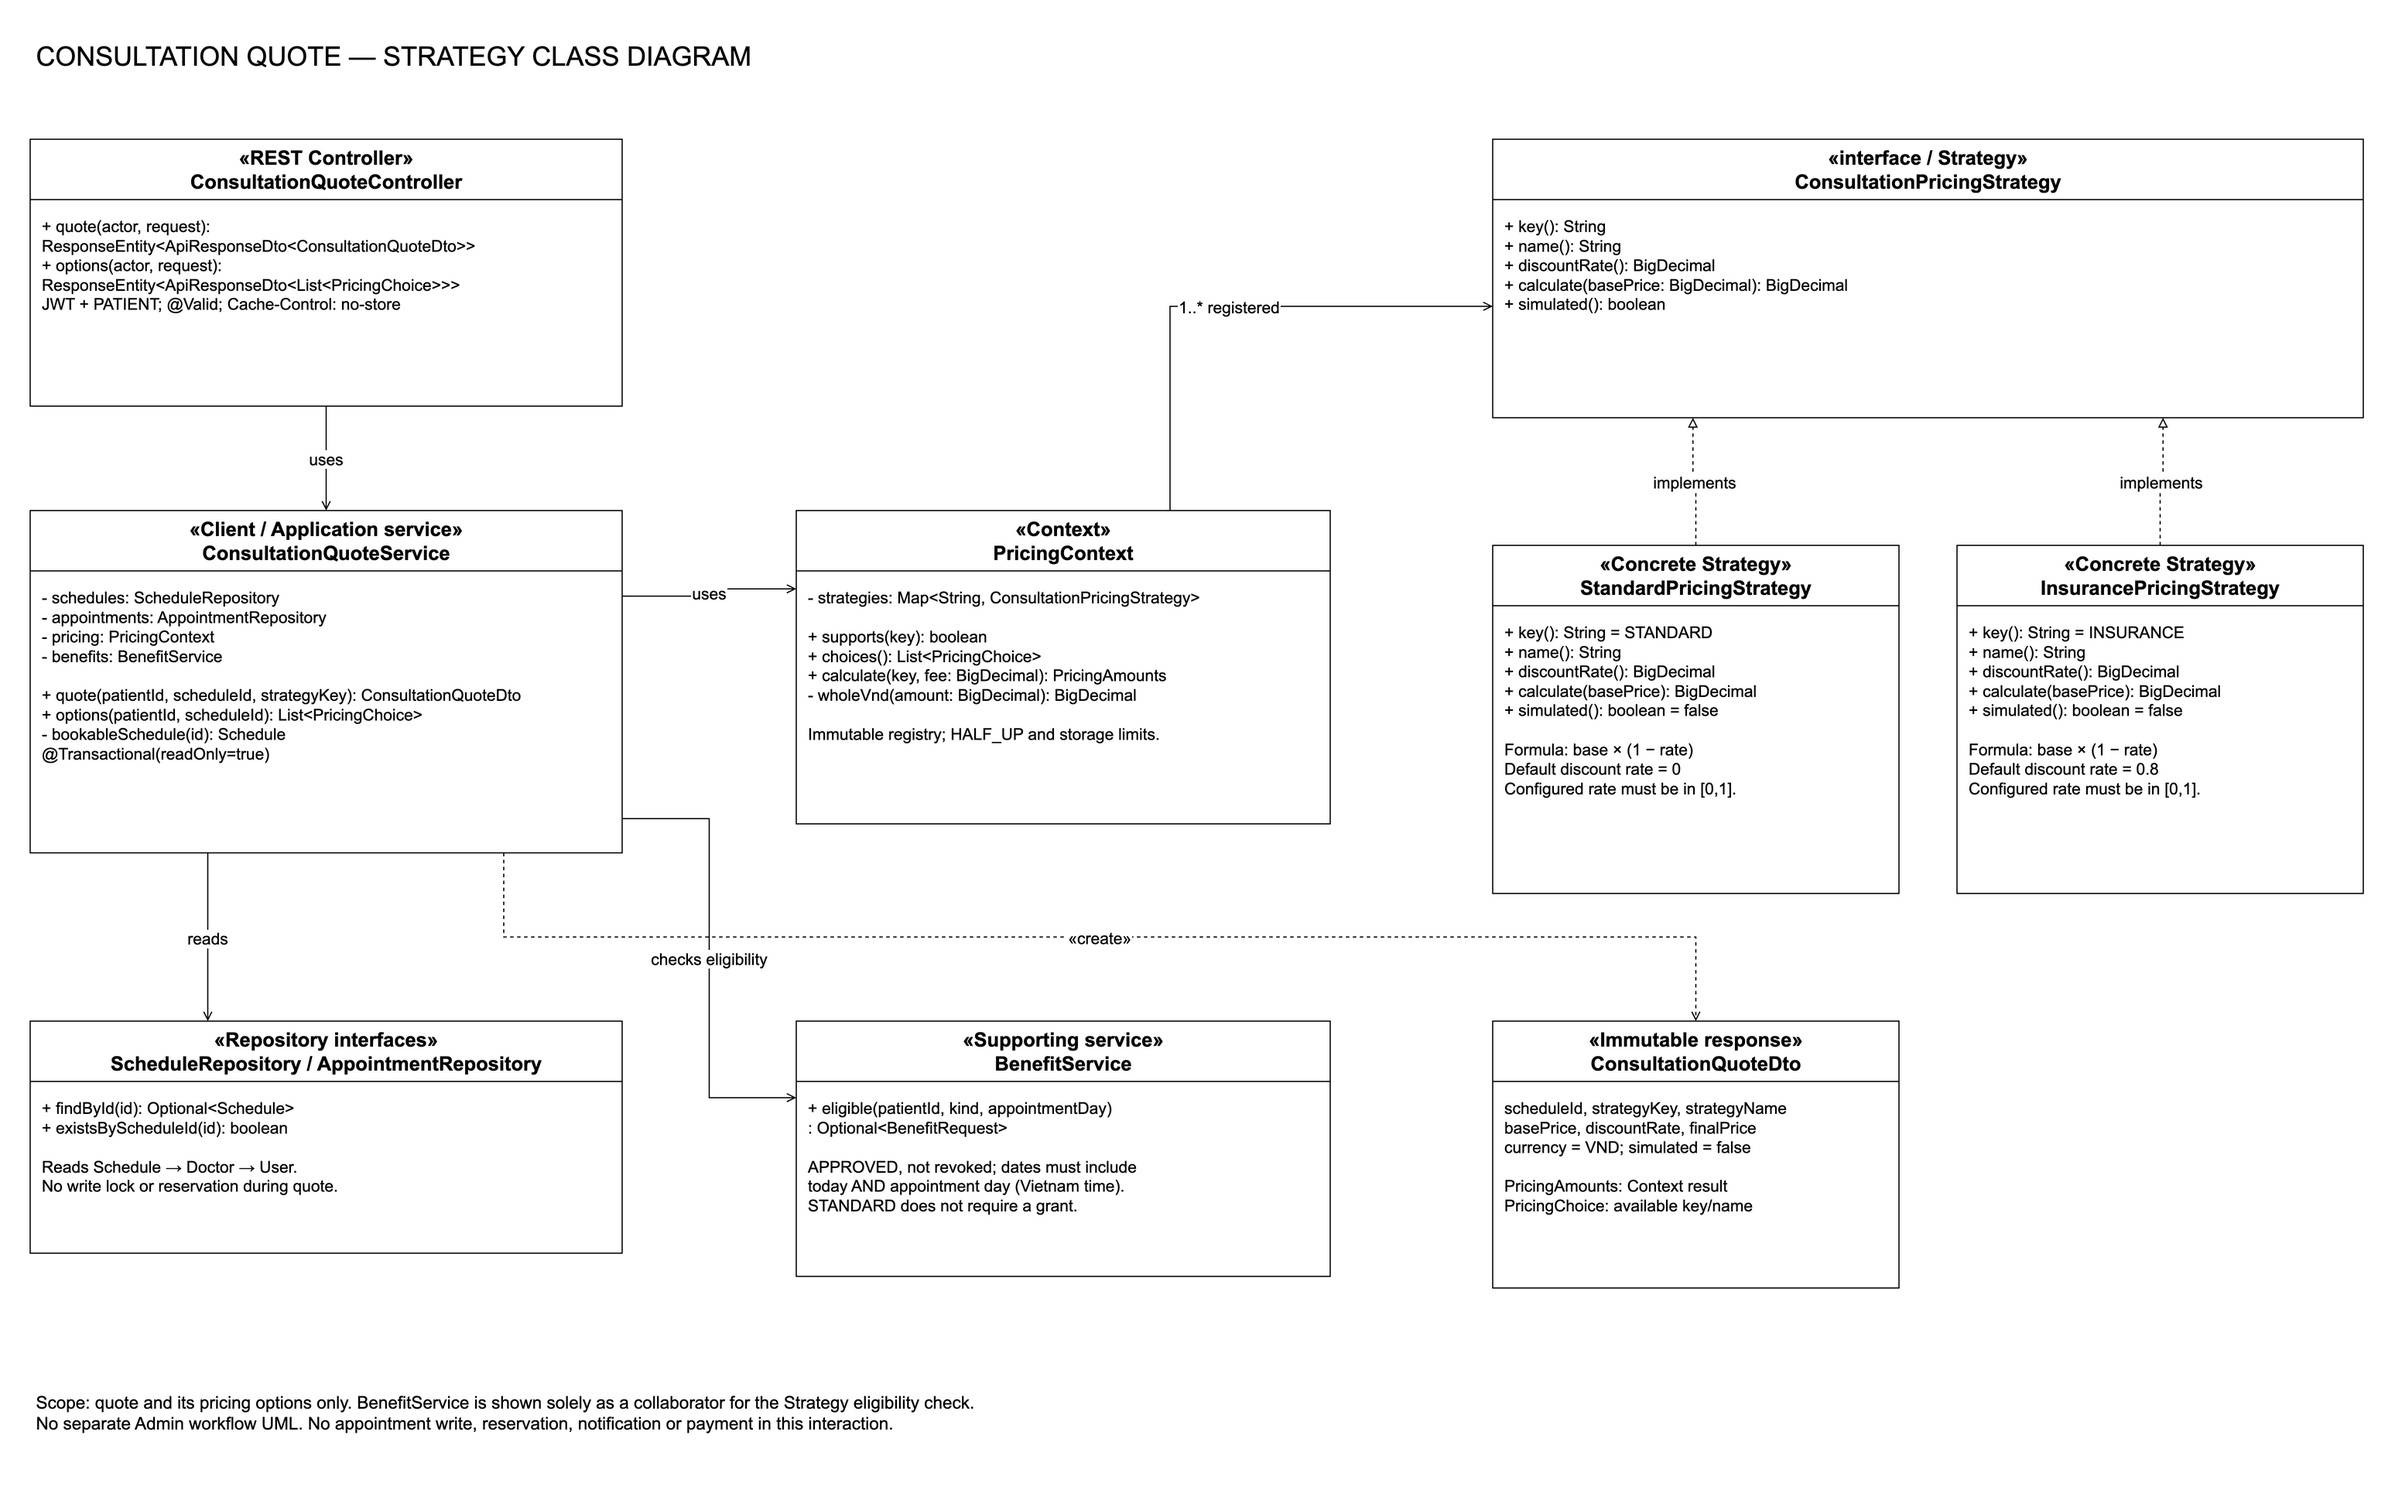
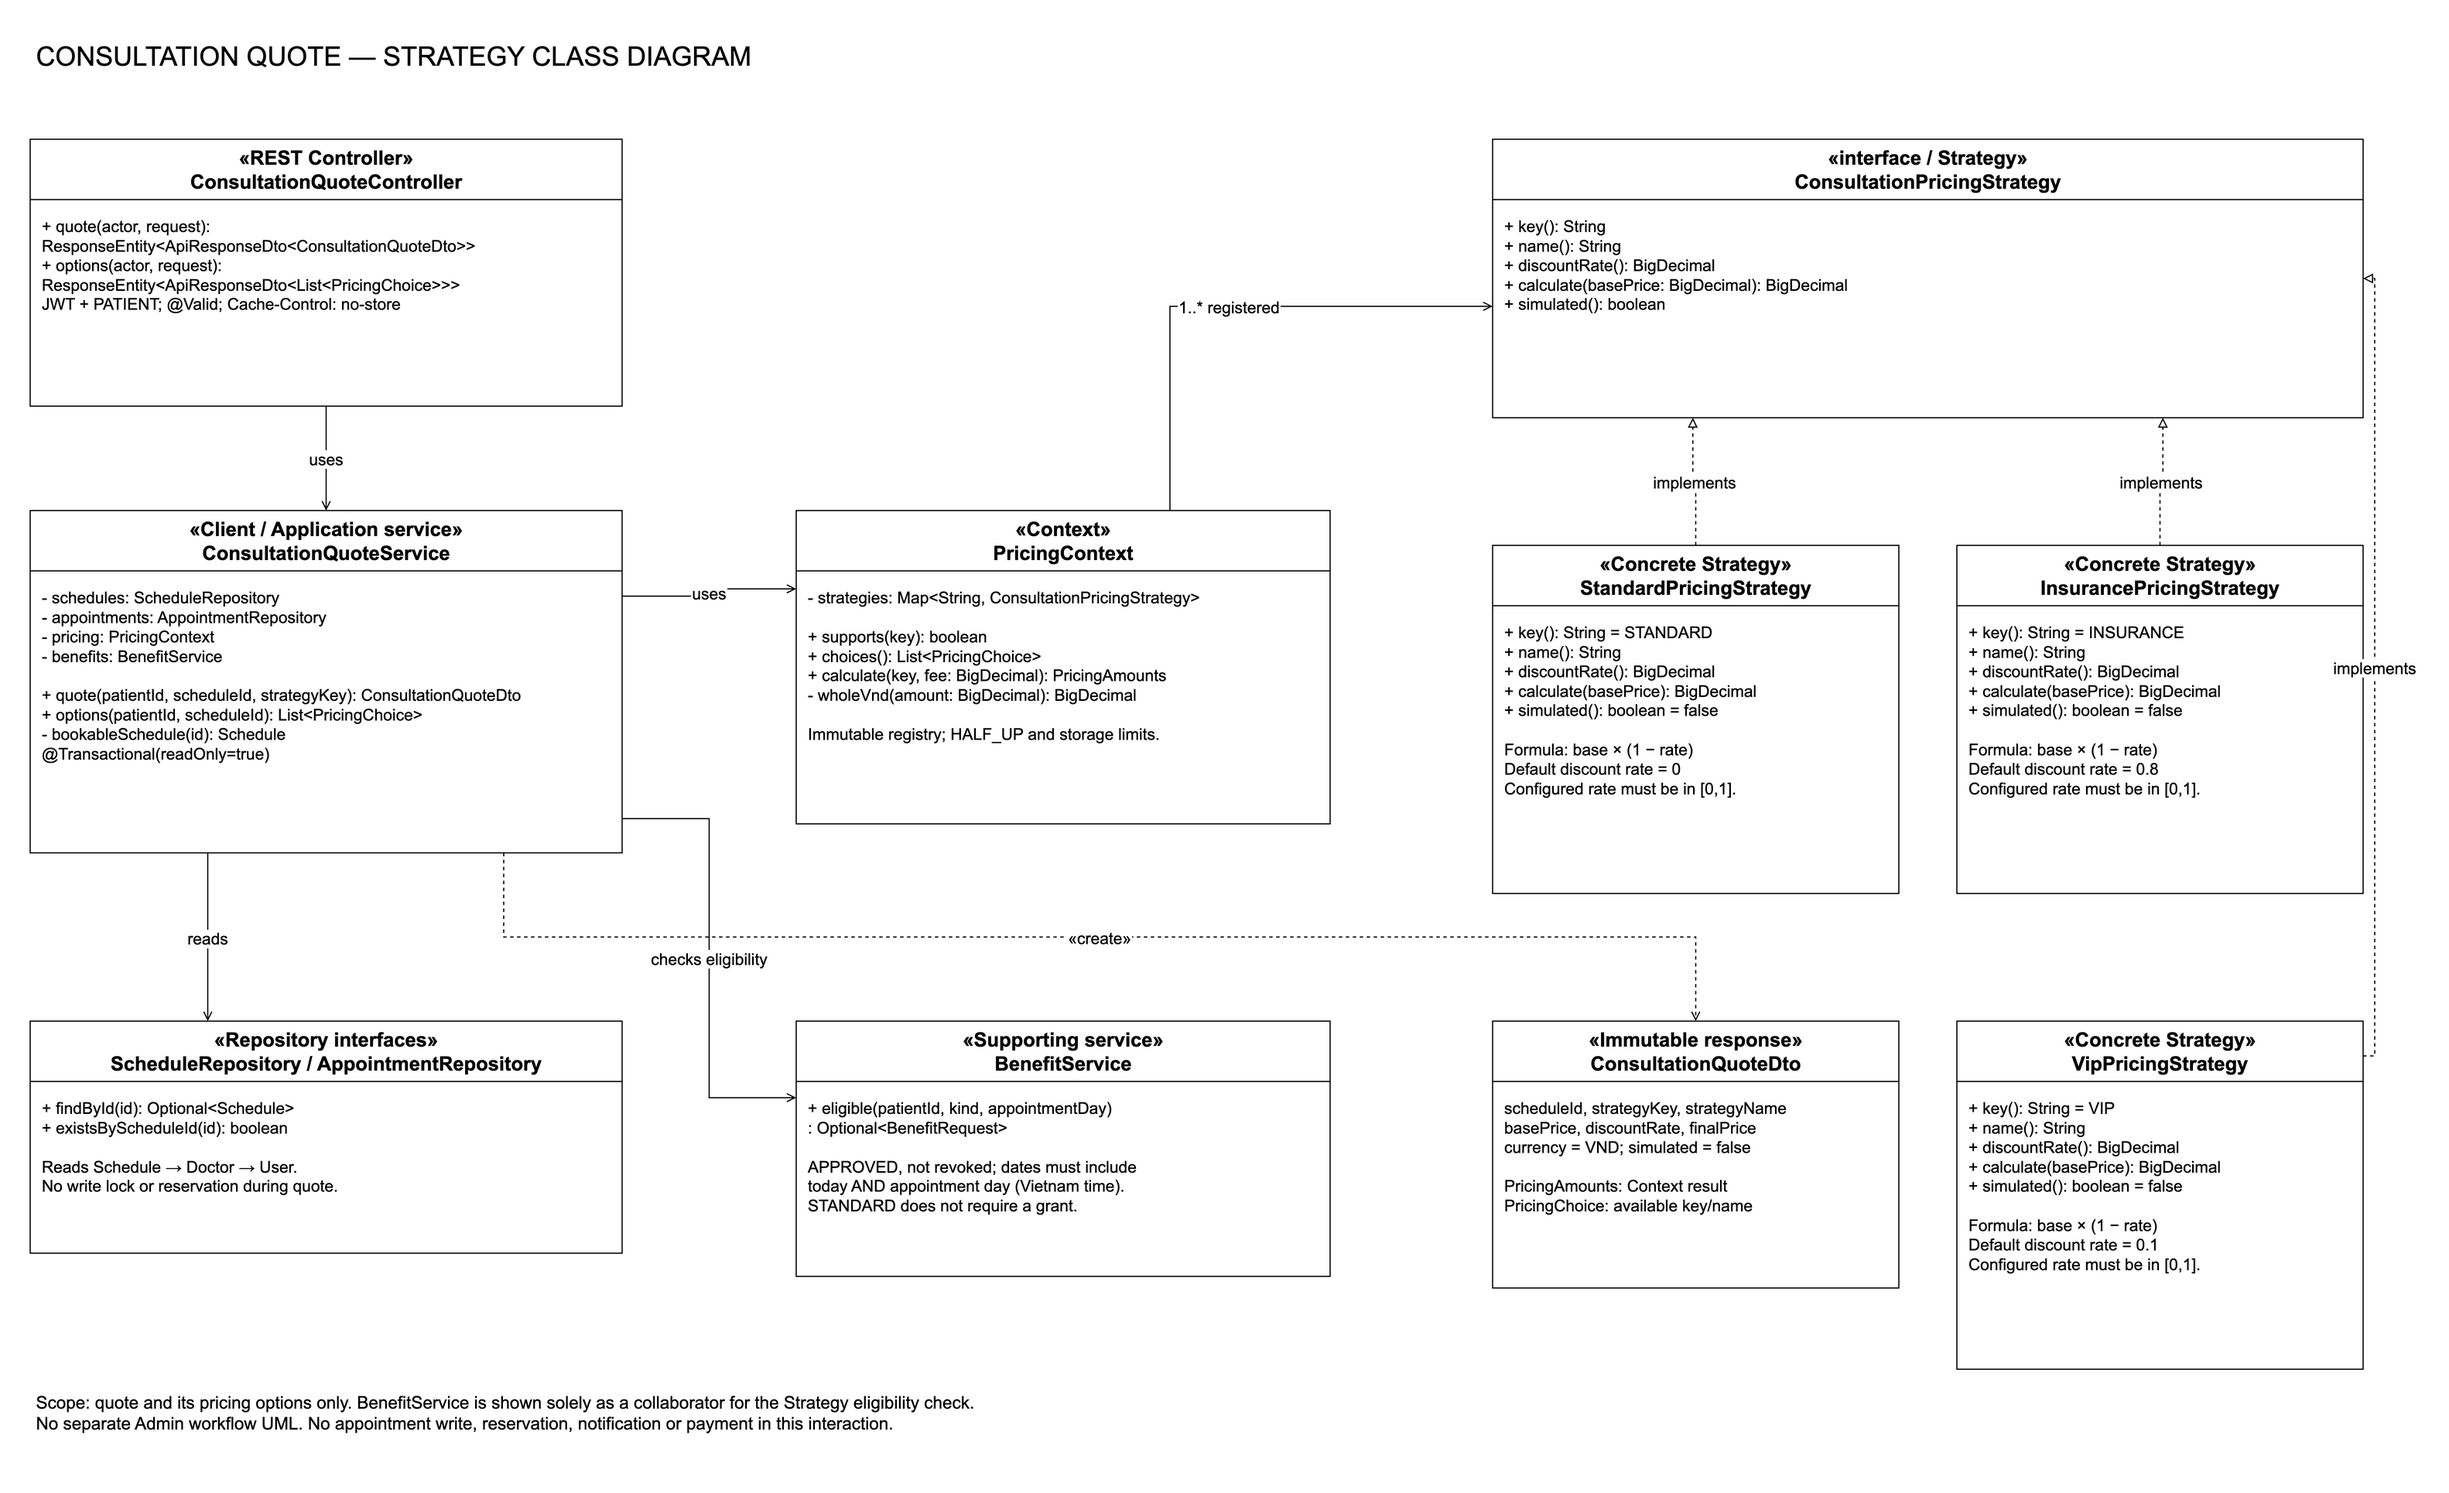
feat: quote VIP prices using verified benefit eligibility (#13)

diff --git a/backend/src/test/java/com/datlichkhambenh/backend/EligibilityQuoteIntegrationTests.java b/backend/src/test/java/com/datlichkhambenh/backend/EligibilityQuoteIntegrationTests.java
@@ -67,4 +67,23 @@ class EligibilityQuoteIntegrationTests {
   right.setPatient(patients.save(Patient.builder().user(other).fullName("Other").build()));benefits.saveAndFlush(right);
   mvc.perform(quote("INSURANCE")).andExpect(status().isForbidden());
  }
+
+ @Test void verifiedVipQuotesNinetyPercent() throws Exception {
+  grant("VIP","APPROVED",0,1);
+  mvc.perform(quote("VIP")).andExpect(status().isOk()).andExpect(jsonPath("$.data.finalPrice").value(270000))
+   .andExpect(jsonPath("$.data.discountRate").value(.1)).andExpect(jsonPath("$.data.simulated").value(false));
+  String p="/api/v1/appointments/pricing-options";
+  mvc.perform(get(p).servletPath(p).param("scheduleId",schedule.getId().toString()).header("Authorization","Bearer "+token))
+   .andExpect(status().isOk()).andExpect(jsonPath("$.data[*].key",hasItem("VIP")));
+ }
+ @Test void simultaneousGrantsDoNotStackDiscounts() throws Exception {
+  grant("INSURANCE","APPROVED",-1,2);grant("VIP","APPROVED",-1,2);
+  mvc.perform(quote("VIP")).andExpect(status().isOk()).andExpect(jsonPath("$.data.finalPrice").value(270000));
+  mvc.perform(quote("INSURANCE")).andExpect(status().isOk()).andExpect(jsonPath("$.data.finalPrice").value(60000));
+  mvc.perform(quote("STANDARD")).andExpect(status().isOk()).andExpect(jsonPath("$.data.finalPrice").value(300000));
+ }
+ @Test void unverifiedAndRevokedVipAreDenied() throws Exception {
+  mvc.perform(quote("VIP")).andExpect(status().isForbidden());
+  grant("VIP","REVOKED",-1,2);mvc.perform(quote("VIP")).andExpect(status().isForbidden());
+ }
 }

diff --git a/backend/src/main/java/com/datlichkhambenh/backend/service/pricing/VipPricingStrategy.java b/backend/src/main/java/com/datlichkhambenh/backend/service/pricing/VipPricingStrategy.java
@@ -1,0 +1,17 @@
+package com.datlichkhambenh.backend.service.pricing;
+import org.springframework.beans.factory.annotation.Value;
+import org.springframework.stereotype.Component;
+import java.math.BigDecimal;
+@Component
+public class VipPricingStrategy implements ConsultationPricingStrategy {
+ private final BigDecimal rate;
+ public VipPricingStrategy(@Value("${app.pricing.vip-discount-rate:0.1}") BigDecimal rate) {
+  if(rate==null||rate.signum()<0||rate.compareTo(BigDecimal.ONE)>0)throw new IllegalArgumentException("Tỷ lệ giảm phải trong [0,1]");
+  this.rate=rate;
+ }
+ public String key(){return "VIP";}
+ public String name(){return "VIP";}
+ public BigDecimal discountRate(){return rate;}
+ public boolean simulated(){return false;}
+ public BigDecimal calculate(BigDecimal basePrice){return basePrice.multiply(BigDecimal.ONE.subtract(rate));}
+}

diff --git a/backend/src/test/java/com/datlichkhambenh/backend/ConsultationQuoteIntegrationTests.java b/backend/src/test/java/com/datlichkhambenh/backend/ConsultationQuoteIntegrationTests.java
@@ -157,7 +157,7 @@ class ConsultationQuoteIntegrationTests {
     }
 
     @ParameterizedTest
-    @CsvSource({"UNKNOWN", "VIP", "' '", "''"})
+    @CsvSource({"UNKNOWN", "' '", "''"})
     void unsupportedOrBlankKeyIsRejected(String key) throws Exception {
         mvc.perform(quoteRequest().param("scheduleId", schedule.getId().toString())
                 .param("strategyKey", key).header("Authorization", "Bearer " + token))

diff --git a/.scratch/consultation-pricing-strategy/issues/06-vip-quote.md b/.scratch/consultation-pricing-strategy/issues/06-vip-quote.md
@@ -1,6 +1,6 @@
 # 06: Báo giá VIP theo quyền đã được duyệt
 
-Status: ready-for-agent
+Status: completed
 
 **Parent:** https://github.com/MinhQuy06/CK_MTKPM/issues/1
 
@@ -12,10 +12,12 @@ Thực hiện trong repository MinhQuy06/CK_MTKPM, branch thaihoa, tại checkou
 
 **Blocked by:** 01: Báo giá Tiêu chuẩn qua Strategy, 03: Admin duyệt hoặc từ chối yêu cầu quyền hưởng
 
-- [ ] Concrete Strategy VIP dùng giao diện và Context hiện có; thêm thuật toán không sửa công thức điều phối.
-- [ ] Mặc định giảm 10%, bệnh nhân trả 90%: 300.000đ → 270.000đ. Tỷ lệ cấu hình được, BigDecimal/HALF_UP và giới hạn tiền thống nhất.
-- [ ] API/giao diện hiển thị VIP trong lựa chọn hợp lệ của chính bệnh nhân cho ca; kiểm tra đã duyệt, chưa thu hồi, hiệu lực hiện tại và ngày khám theo múi giờ Việt Nam.
-- [ ] Request loại VIP không hợp lệ bị server từ chối, không tự áp giảm hoặc chuyển loại. Chờ/từ chối/chưa đến hạn/hết hạn đều không đủ điều kiện.
-- [ ] VIP hợp lệ dùng được ở môi trường vận hành, không khóa theo demo/test; mỗi báo giá chỉ một loại, không tự chọn ưu đãi tốt nhất thay người dùng.
-- [ ] Kiểm thử API công thức, quyền, ngày biên và danh sách lựa chọn; kiểm thử giao diện đổi loại/ca và loại bỏ response cũ. Báo giá không tạo lịch, giữ ca hay phát email.
-- [ ] Cập nhật cùng cặp Class/Sequence báo giá và PNG đen trắng để phản ánh VIP thực tế; giữ tổng chỉ hai sơ đồ cho chức năng báo giá.
+- [x] Concrete Strategy VIP dùng giao diện và Context hiện có; thêm thuật toán không sửa công thức điều phối.
+- [x] Mặc định giảm 10%, bệnh nhân trả 90%: 300.000đ → 270.000đ. Tỷ lệ cấu hình được, BigDecimal/HALF_UP và giới hạn tiền thống nhất.
+- [x] API/giao diện hiển thị VIP trong lựa chọn hợp lệ của chính bệnh nhân cho ca; kiểm tra đã duyệt, chưa thu hồi, hiệu lực hiện tại và ngày khám theo múi giờ Việt Nam.
+- [x] Request loại VIP không hợp lệ bị server từ chối, không tự áp giảm hoặc chuyển loại. Chờ/từ chối/chưa đến hạn/hết hạn đều không đủ điều kiện.
+- [x] VIP hợp lệ dùng được ở môi trường vận hành, không khóa theo demo/test; mỗi báo giá chỉ một loại, không tự chọn ưu đãi tốt nhất thay người dùng.
+- [x] Kiểm thử API công thức, quyền, ngày biên và danh sách lựa chọn; kiểm thử giao diện đổi loại/ca và loại bỏ response cũ. Báo giá không tạo lịch, giữ ca hay phát email.
+- [x] Cập nhật cùng cặp Class/Sequence báo giá và PNG đen trắng để phản ánh VIP thực tế; giữ tổng chỉ hai sơ đồ cho chức năng báo giá.
+
+Verification: 81 Maven + 9 Node tests; clean-fixture Chrome VIP quote 270000 VND passed; no-stacking and unauthorized/revoked cases covered; updated UML exported offline.

diff --git a/docs/strategy/standard-quote.md b/docs/strategy/standard-quote.md
@@ -15,3 +15,7 @@ Kiểm tra: bash scripts/maven.sh -q -f backend/pom.xml test; npm --prefix front
 ## Bảo hiểm đã xác minh — ticket #12
 
 InsurancePricingStrategy giảm mặc định 80%, tỷ lệ INSURANCE_DISCOUNT_RATE cấu hình trong [0,1]. Với phí 300000, giá phải trả là 60000 VND. BenefitService kiểm tra hồ sơ đã duyệt, chưa thu hồi và khoảng ngày bao gồm hôm nay lẫn ngày khám theo giờ Việt Nam. Danh tính lấy từ JWT. API pricing-options chỉ trả loại hiện đủ điều kiện; chọn bằng request sửa tay vẫn phải qua kiểm tra server. Không giới hạn demo/test và không cam kết khoản bảo hiểm hoàn trả. UML chỉ hiển thị BenefitService như cộng tác viên cần cho việc chọn Strategy.
+
+## VIP đã xác minh — ticket #13
+
+VipPricingStrategy giảm mặc định 10% (VIP_DISCOUNT_RATE), người bệnh trả 90%. Với phí 300000, giá VIP là 270000 VND. Registry nhận thêm Concrete Strategy mà không sửa thuật toán điều phối. Nếu có cả hai quyền, bệnh nhân chọn một loại; không cộng dồn Bảo hiểm/VIP. Mọi loại ưu đãi đều qua cùng kiểm tra người bệnh, trạng thái duyệt và ngày hiệu lực.

diff --git a/docs/strategy/execution.md b/docs/strategy/execution.md
@@ -38,3 +38,5 @@ Primary seam: HTTP APIs with real Spring/H2/MockMvc JWT; browser smoke for rende
 - #11 complete: admin-only revocation, derived expiry state, linked new renewal requests, unchanged original history; 69 Maven + 9 Node tests and Chrome full benefit lifecycle passed.
 
 - #12 complete: operative Insurance Strategy, authenticated patient/date eligibility, pricing-options API/UI; today and appointment-day inclusive boundaries, revoked/other-patient denial tested; 79 Maven + 9 Node and Chrome insurance quote smoke passed.
+
+- #13 complete: VipPricingStrategy registered without changing Context algorithm; 81 Maven + 9 Node tests and fresh-fixture Chrome VIP quote passed. Initial browser timeout after host sleep/clock leaps cleared on a clean fixture rerun; no product change made to mask it.
